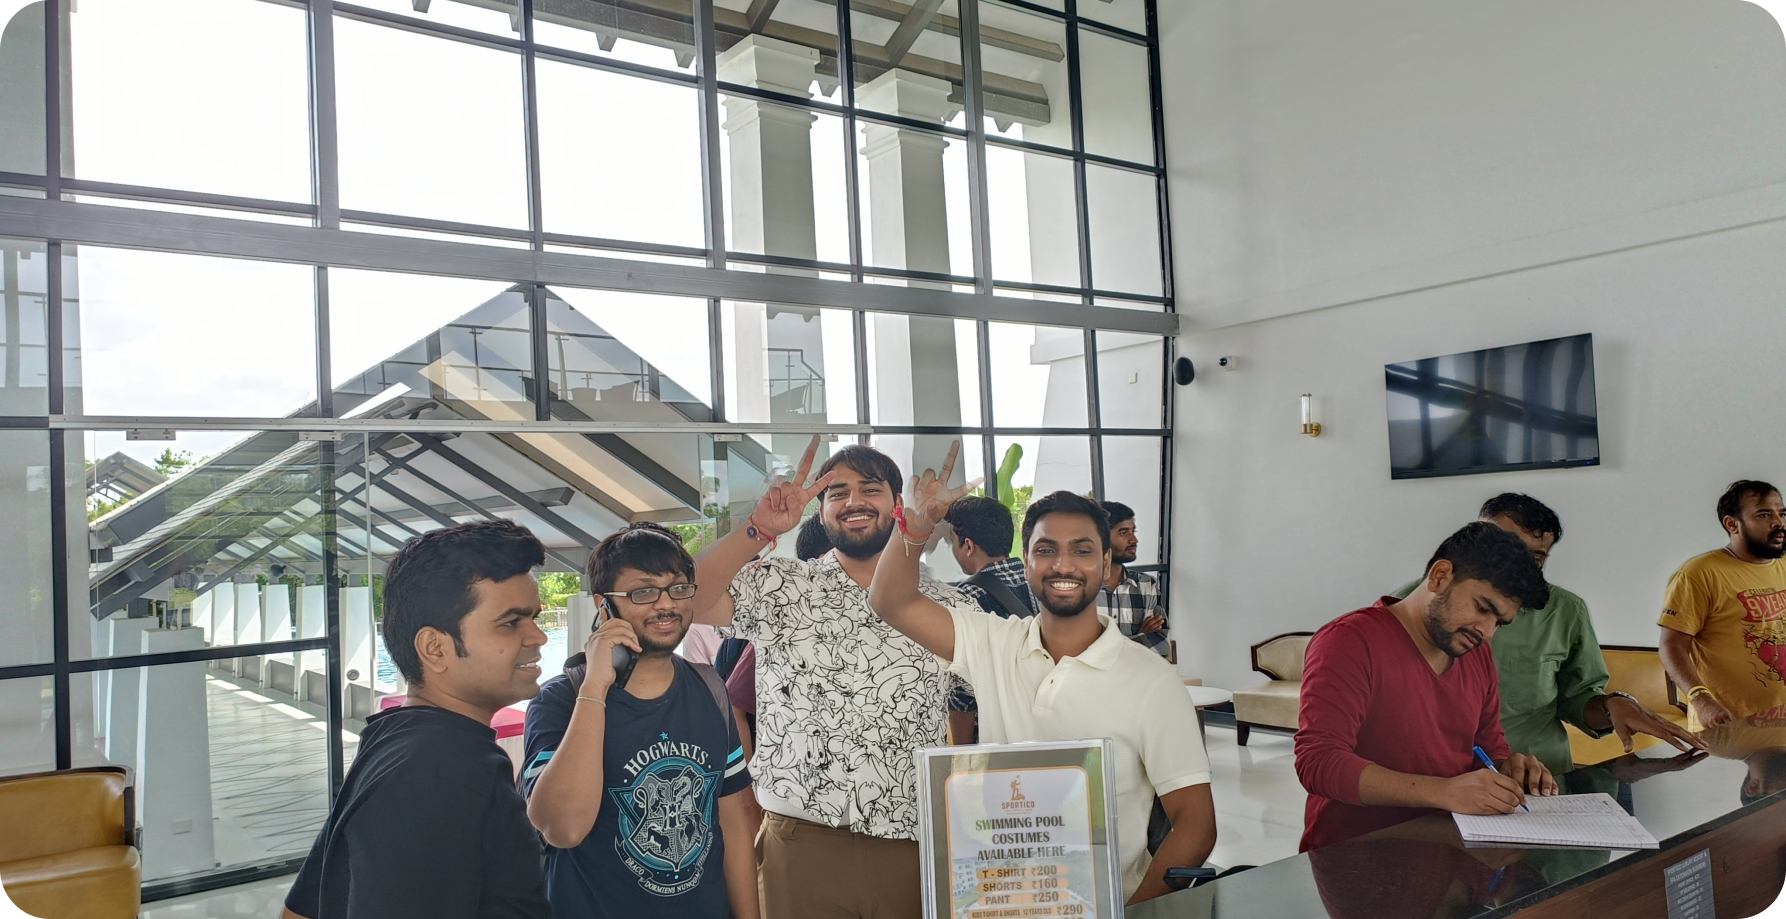
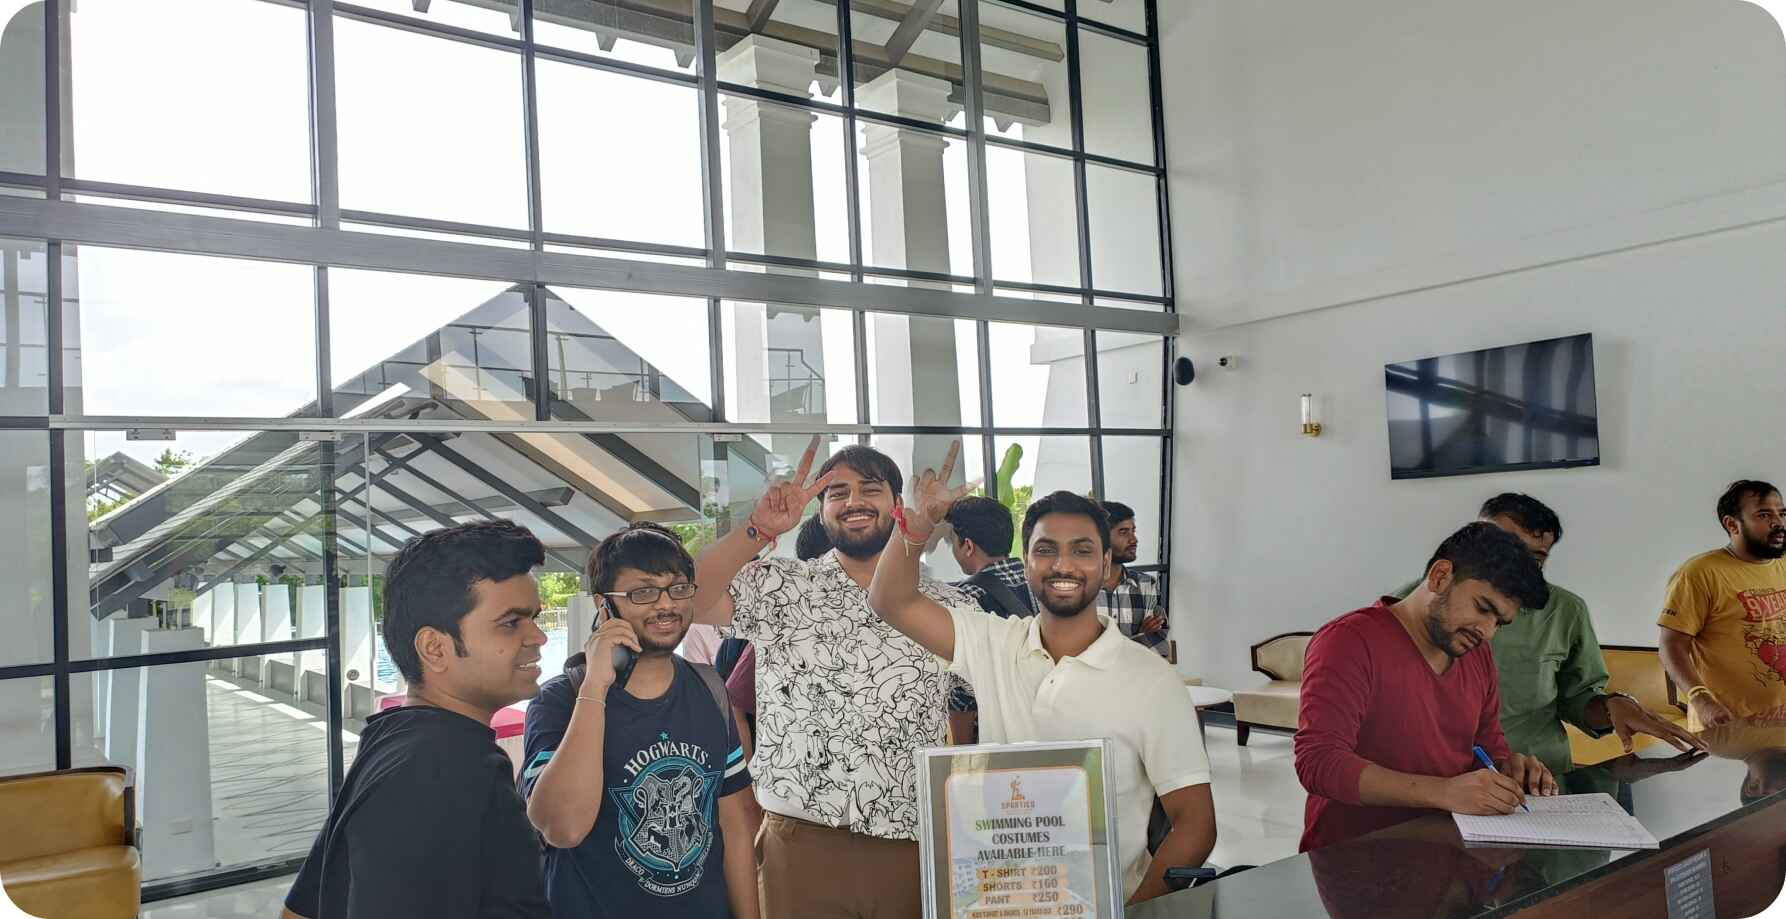
case study mapping

diff --git a/case-studies/Ashok_leyland/case-stydy.html b/case-studies/Ashok_leyland/case-stydy.html
@@ -100,7 +100,7 @@
   <div class="container">
     <!-- Image Section -->
     <div class="image-section">
-      <img src="../Assets/hero-images/ashok_leyland.png" alt="Warehouse" class="background-image">
+      <img src="../Assets/hero-images/ashok_leyland.webp" alt="Warehouse" class="background-image">
       <div class="tabs-container">
         <!-- Left Arrow -->
         <button class="arrow left-arrow" onclick="slideTabs('left')">&lt;</button>
@@ -223,7 +223,7 @@
                   </p>
                 </div>
                 <div class="feature-image">
-                  <img src="../Assets/hero-images/key.png" alt="MAG Fleet">
+                  <img src="../Assets/hero-images/key.webp" alt="MAG Fleet">
                 </div>
               </div>
             </div>
@@ -246,7 +246,7 @@
                   </p>
                 </div>
                 <div class="feature-image">
-                  <img src="../Assets/hero-images/key.png" alt="MAG Fleet">
+                  <img src="../Assets/hero-images/key.webp" alt="MAG Fleet">
                 </div>
               </div>
             </div>
@@ -267,7 +267,7 @@
                   </p>
                 </div>
                 <div class="feature-image">
-                  <img src="../Assets/hero-images/key.png" alt="MAG Fleet">
+                  <img src="../Assets/hero-images/key.webp" alt="MAG Fleet">
                 </div>
               </div>
             </div>
@@ -288,7 +288,7 @@
                   </p>
                 </div>
                 <div class="feature-image">
-                  <img src="../Assets/hero-images/key.png" alt="MAG Fleet">
+                  <img src="../Assets/hero-images/key.webp" alt="MAG Fleet">
                 </div>
               </div>
             </div>

diff --git a/case-studies/Nestle/case-stydy.html b/case-studies/Nestle/case-stydy.html
@@ -99,7 +99,7 @@
   <div class="container">
     <!-- Image Section -->
     <div class="image-section">
-      <img src="../Assets/hero-images/nestle.png" alt="Warehouse" class="background-image">
+      <img src="../Assets/hero-images/nestle.webp" alt="Warehouse" class="background-image">
       <div class="tabs-container">
         <!-- Left Arrow -->
         <button class="arrow left-arrow" onclick="slideTabs('left')">&lt;</button>
@@ -214,7 +214,7 @@
                   </p>
                 </div>
                 <div class="feature-image">
-                  <img src="../Assets/hero-images/key.png" alt="MAG Fleet">
+                  <img src="../Assets/hero-images/key.webp" alt="MAG Fleet">
                 </div>
               </div>
             </div>
@@ -236,7 +236,7 @@
                   </p>
                 </div>
                 <div class="feature-image">
-                  <img src="../Assets/hero-images/key.png" alt="MAG Fleet">
+                  <img src="../Assets/hero-images/key.webp" alt="MAG Fleet">
                 </div>
               </div>
             </div>
@@ -256,7 +256,7 @@
                   </p>
                 </div>
                 <div class="feature-image">
-                  <img src="../Assets/hero-images/key.png" alt="MAG Fleet">
+                  <img src="../Assets/hero-images/key.webp" alt="MAG Fleet">
                 </div>
               </div>
             </div>
@@ -276,7 +276,7 @@
                   </p>
                 </div>
                 <div class="feature-image">
-                  <img src="../Assets/hero-images/key.png" alt="MAG Fleet">
+                  <img src="../Assets/hero-images/key.webp" alt="MAG Fleet">
                 </div>
               </div>
             </div>

diff --git a/case-studies/Alcon/case-stydy.html b/case-studies/Alcon/case-stydy.html
@@ -99,7 +99,7 @@
   <div class="container">
     <!-- Image Section -->
     <div class="image-section">
-      <img src="../Assets/hero-images/alcon.png" alt="Warehouse" class="background-image">
+      <img src="../Assets/hero-images/alcon.webp" alt="Warehouse" class="background-image">
       <div class="tabs-container">
         <!-- Left Arrow -->
         <button class="arrow left-arrow" onclick="slideTabs('left')">&lt;</button>
@@ -219,7 +219,7 @@
                   </p>
                 </div>
                 <div class="feature-image">
-                  <img src="../Assets/hero-images/key.png" alt="MAG Fleet">
+                  <img src="../Assets/hero-images/key.webp" alt="MAG Fleet">
                 </div>
               </div>
             </div>
@@ -241,7 +241,7 @@
                   </p>
                 </div>
                 <div class="feature-image">
-                  <img src="../Assets/hero-images/key.png" alt="MAG Fleet">
+                  <img src="../Assets/hero-images/key.webp" alt="MAG Fleet">
                 </div>
               </div>
             </div>
@@ -262,7 +262,7 @@
                   </p>
                 </div>
                 <div class="feature-image">
-                  <img src="../Assets/hero-images/key.png" alt="MAG Fleet">
+                  <img src="../Assets/hero-images/key.webp" alt="MAG Fleet">
                 </div>
               </div>
             </div>
@@ -283,7 +283,7 @@
                   </p>
                 </div>
                 <div class="feature-image">
-                  <img src="../Assets/hero-images/key.png" alt="MAG Fleet">
+                  <img src="../Assets/hero-images/key.webp" alt="MAG Fleet">
                 </div>
               </div>
             </div>

diff --git a/case-study.html b/case-study.html
@@ -307,8 +307,8 @@
             title: "Automated Material Transfer to and from the Production Line",
         },
         {
-            link: "./case-studies/Alcon/case-stydy.html",
-            img: "images/alcon-inr.png",
+            link: "./case-studies/Global automaker 1/case-stydy.html",
+            img: "images/automaker_1.webp",
             category: "Material Transfer to and from Production lines",
             categoryImg: "",
             title: "Global automaker improves productivity by 12.5% with MAG Lifter Solution",
@@ -323,7 +323,7 @@
         },
         {
             link: "./case-studies/Parkeh/case-stydy.html",
-            img: "images/nestel.jpeg",
+            img: "images/parkeh.webp",
             category: "Inbound and Outbound Warehouse Operations",
             categoryImg: "",
             title: " MAG1000 Pallet Lifter for Warehouse Inbound Put-Away Automation",
@@ -344,8 +344,8 @@
                 "Bolloré Logistics saves 90 man-hours per month with MAG300 Cage Lifter Module",
         },
         {
-            link: "./case-studies/Nestle/case-stydy.html",
-            img: "images/material-case.png",
+            link: "./case-studies/Alcon/case-stydy.html",
+            img: "images/alcon-inr.png",
             category: "Box Packaging and Preparation",
             categoryImg: "",
             title:
@@ -368,7 +368,7 @@
                 "Global automaker achieves ROI in under 2 years",
         },
         {
-            link: "./case-studies/Global automaker 1/case-stydy.html",
+            link: "./case-studies/Nestle/case-stydy.html",
             img: "images/767.png",
             category: "End of Line Operations",
             categoryImg: "",

diff --git a/case-studies/CCIPL/case-stydy.html b/case-studies/CCIPL/case-stydy.html
@@ -99,7 +99,7 @@
   <div class="container">
     <!-- Image Section -->
     <div class="image-section">
-      <img src="../Assets/hero-images/CCIPL.png" alt="Warehouse" class="background-image">
+      <img src="../Assets/hero-images/CCIPL.webp" alt="Warehouse" class="background-image">
       <div class="tabs-container">
         <!-- Left Arrow -->
         <button class="arrow left-arrow" onclick="slideTabs('left')">&lt;</button>
@@ -211,7 +211,7 @@
                   </p>
                 </div>
                 <div class="feature-image">
-                  <img src="../Assets/hero-images/key.png" alt="MAG Fleet">
+                  <img src="../Assets/hero-images/key.webp" alt="MAG Fleet">
                 </div>
               </div>
             </div>
@@ -234,7 +234,7 @@
                   </p>
                 </div>
                 <div class="feature-image">
-                  <img src="../Assets/hero-images/key.png" alt="MAG Fleet">
+                  <img src="../Assets/hero-images/key.webp" alt="MAG Fleet">
                 </div>
               </div>
             </div>
@@ -255,7 +255,7 @@
                   </p>
                 </div>
                 <div class="feature-image">
-                  <img src="../Assets/hero-images/key.png" alt="MAG Fleet">
+                  <img src="../Assets/hero-images/key.webp" alt="MAG Fleet">
                 </div>
               </div>
             </div>

diff --git a/case-studies/AutoLiv/case-stydy.html b/case-studies/AutoLiv/case-stydy.html
@@ -101,7 +101,7 @@
   <div class="container">
     <!-- Image Section -->
     <div class="image-section">
-      <img src="../Assets/hero-images/autoliv.png" alt="Warehouse" class="background-image">
+      <img src="../Assets/hero-images/autoliv.webp" alt="Warehouse" class="background-image">
       <div class="tabs-container">
         <!-- Left Arrow -->
         <button class="arrow left-arrow" onclick="slideTabs('left')">&lt;</button>
@@ -212,7 +212,7 @@
                   </p>
                 </div>
                 <div class="feature-image">
-                  <img src="../Assets/hero-images/key.png" alt="MAG Fleet">
+                  <img src="../Assets/hero-images/key.webp" alt="MAG Fleet">
                 </div>
               </div>
             </div>
@@ -234,7 +234,7 @@
                   </p>
                 </div>
                 <div class="feature-image">
-                  <img src="../Assets/hero-images/key.png" alt="MAG Fleet">
+                  <img src="../Assets/hero-images/key.webp" alt="MAG Fleet">
                 </div>
               </div>
             </div>

diff --git a/case-studies/Bollore/case-stydy.html b/case-studies/Bollore/case-stydy.html
@@ -203,7 +203,7 @@
                   </p>
                 </div>
                 <div class="feature-image">
-                  <img src="../Assets/hero-images/key.png" alt="MAG Fleet">
+                  <img src="../Assets/hero-images/key.webp" alt="MAG Fleet">
                 </div>
               </div>
             </div>
@@ -226,7 +226,7 @@
                   </p>
                 </div>
                 <div class="feature-image">
-                  <img src="../Assets/hero-images/key.png" alt="MAG Fleet">
+                  <img src="../Assets/hero-images/key.webp" alt="MAG Fleet">
                 </div>
               </div>
             </div>
@@ -247,7 +247,7 @@
                   </p>
                 </div>
                 <div class="feature-image">
-                  <img src="../Assets/hero-images/key.png" alt="MAG Fleet">
+                  <img src="../Assets/hero-images/key.webp" alt="MAG Fleet">
                 </div>
               </div>
             </div>

diff --git a/case-studies/Global automaker 1/case-stydy.html b/case-studies/Global automaker 1/case-stydy.html
@@ -209,7 +209,7 @@
                   </p>
                 </div>
                 <div class="feature-image">
-                  <img src="../Assets/hero-images/key.png" alt="MAG Fleet">
+                  <img src="../Assets/hero-images/key.webp" alt="MAG Fleet">
                 </div>
               </div>
             </div>
@@ -232,7 +232,7 @@
                   </p>
                 </div>
                 <div class="feature-image">
-                  <img src="../Assets/hero-images/key.png" alt="MAG Fleet">
+                  <img src="../Assets/hero-images/key.webp" alt="MAG Fleet">
                 </div>
               </div>
             </div>
@@ -253,7 +253,7 @@
                   </p>
                 </div>
                 <div class="feature-image">
-                  <img src="../Assets/hero-images/key.png" alt="MAG Fleet">
+                  <img src="../Assets/hero-images/key.webp" alt="MAG Fleet">
                 </div>
               </div>
             </div>

diff --git a/case-studies/Global automaker 2/case-stydy.html b/case-studies/Global automaker 2/case-stydy.html
@@ -216,7 +216,7 @@
                   </p>
                 </div>
                 <div class="feature-image">
-                  <img src="../Assets/hero-images/key.png" alt="MAG Fleet">
+                  <img src="../Assets/hero-images/key.webp" alt="MAG Fleet">
                 </div>
               </div>
             </div>
@@ -239,7 +239,7 @@
                   </p>
                 </div>
                 <div class="feature-image">
-                  <img src="../Assets/hero-images/key.png" alt="MAG Fleet">
+                  <img src="../Assets/hero-images/key.webp" alt="MAG Fleet">
                 </div>
               </div>
             </div>
@@ -262,7 +262,7 @@
                   </p>
                 </div>
                 <div class="feature-image">
-                  <img src="../Assets/hero-images/key.png" alt="MAG Fleet">
+                  <img src="../Assets/hero-images/key.webp" alt="MAG Fleet">
                 </div>
               </div>
             </div>

diff --git a/case-studies/PT Tri Centrum Fortuna/case-stydy.html b/case-studies/PT Tri Centrum Fortuna/case-stydy.html
@@ -201,7 +201,7 @@
                   </p>
                 </div>
                 <div class="feature-image">
-                  <img src="../Assets/hero-images/key.png" alt="MAG Fleet">
+                  <img src="../Assets/hero-images/key.webp" alt="MAG Fleet">
                 </div>
               </div>
             </div>
@@ -224,7 +224,7 @@
                   </p>
                 </div>
                 <div class="feature-image">
-                  <img src="../Assets/hero-images/key.png" alt="MAG Fleet">
+                  <img src="../Assets/hero-images/key.webp" alt="MAG Fleet">
                 </div>
               </div>
             </div>
@@ -245,7 +245,7 @@
                   </p>
                 </div>
                 <div class="feature-image">
-                  <img src="../Assets/hero-images/key.png" alt="MAG Fleet">
+                  <img src="../Assets/hero-images/key.webp" alt="MAG Fleet">
                 </div>
               </div>
             </div>

diff --git a/case-studies/Parkeh/case-stydy.html b/case-studies/Parkeh/case-stydy.html
@@ -197,7 +197,7 @@
                   </p>
                 </div>
                 <div class="feature-image">
-                  <img src="../Assets/hero-images/key.png" alt="MAG Fleet">
+                  <img src="../Assets/hero-images/key.webp" alt="MAG Fleet">
                 </div>
               </div>
             </div>
@@ -220,7 +220,7 @@
                   </p>
                 </div>
                 <div class="feature-image">
-                  <img src="../Assets/hero-images/key.png" alt="MAG Fleet">
+                  <img src="../Assets/hero-images/key.webp" alt="MAG Fleet">
                 </div>
               </div>
             </div>
@@ -241,7 +241,7 @@
                   </p>
                 </div>
                 <div class="feature-image">
-                  <img src="../Assets/hero-images/key.png" alt="MAG Fleet">
+                  <img src="../Assets/hero-images/key.webp" alt="MAG Fleet">
                 </div>
               </div>
             </div>

diff --git a/about.html b/about.html
@@ -105,7 +105,7 @@
                 <div class="col-md-12">
                     <div class="inr-banner-about">
                         <h2>About Us</h2>
-                        <img src="images/Hero image.jpg" class="my-5 w-100"/>
+                        <img src="images/Hero image.webp" class="my-5 w-100"/>
                         <p>Botsync is Asia’s leading provider of robotic automation solutions, transforming enterprise supply chains with cutting-edge technology. Our autonomous robot fleet reduces manual operations, while our no-code software platform empowers operators to integrate automation systems quickly—without the need for specialists or production downtime. </p>
                         <p>We’ve revolutionised operations for industry leaders like <strong>Ford, Coca-Cola, and Kimberly-Clark,</strong> allowing them to boost throughput, reduce downtime, and improve efficiency in record time</p>
                     </div>
